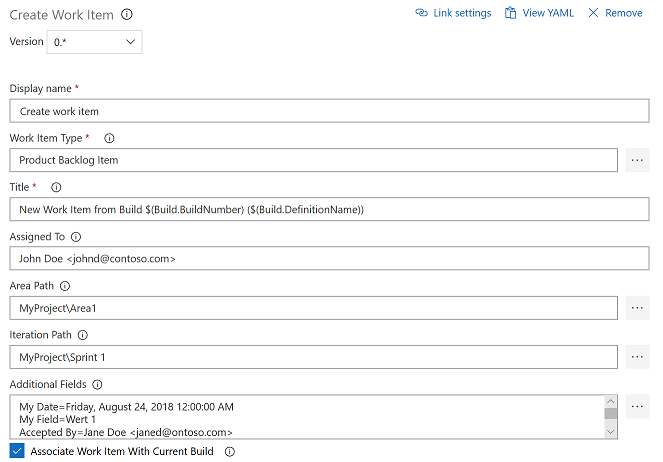
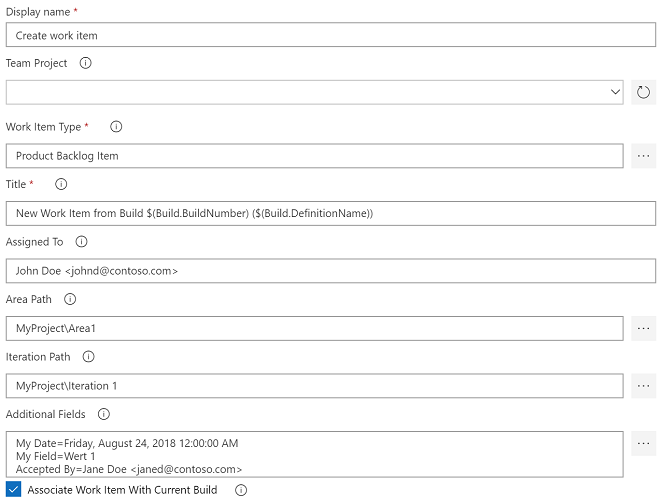
Update docs to v1.2.0

Changed region(s): [[0.0, 0.1515, 0.9955, 1.0], [0.0, 0.0, 0.9955, 0.1515], [0.9351, 0.7576, 0.9653, 0.7879]]

diff --git a/CreateWorkItem/en-US/overview.md b/CreateWorkItem/en-US/overview.md
@@ -50,6 +50,10 @@ The task supports the default parameters listed below. All parameters support va
 
 ![Default Task Parameters](../assets/DefaultInputs.png "Configuring the Create Work Item task")
 
+- <a name="teamProject">**Team Project:**</a> Select the team project in which to create the new work item or leave empty to use the current project. If the list is empty, click the refresh button on the right.
+
+  **YAML: teamProject** - Default is empty.
+
 - <a name="workItemType">**Work Item Type:**</a> Specify the work item type you want to create. If you know the exact name of the work item type, simply type it into the textbox. You may also click on the selection icon on the right (three dots) and select a work item type from the drop-down list displayed in the opening dialog. This field is required.
 
   ![Work Item Type Picker](../assets/WorkItemTypePicker.png "Selecting a work item type")
@@ -107,9 +111,9 @@ Use the parameters in the *Linking* group to control links from the newly create
 
   **Note:** The link type you select is used for the linked work item, not the created work item. Thus, if you select *Parent*, the linked work item will become the parent of the newly created work item. Please ensure that the combination of *Link Type* and *Link Target* results in a valid link relationship. E.g., if you select *Parent* as the link type and then use a *Target Query* that results in two or more work items, the task will fail to create the work item links since a work item can only have one parent.
 
-- <a name="linkTarget">**Link Target:**</a> Choose `ID` and specify the *Target ID* to link the new work item to a specific work item with a known ID. Select `Query` and enter a valid *Target Query* to link the new work item to one ore more items matching a given work item query. This option is only visible if linking is enabled.
+- <a name="linkTarget">**Link Target:**</a> Choose `ID` and specify the *Target ID* to link the new work item to a specific work item with a known ID. Select `Query` and enter a valid *Target Query* to link the new work item to one ore more items matching a given work item query. Use the option `Associated Work Items` to link all work items that are associated with the current build or release to the new work item. This option is only visible if linking is enabled.
   
-  **YAML: linkTarget** - Default is *id*. Set to *id* for the `ID` option or *wiql* for the `Query` option.
+  **YAML: linkTarget** - Default is *id*. Set to *id* for the `ID` option, *wiql* for the `Query` option, or *associate* for the `Associated Work Items` option.
 
 - <a name="targetId">**Target ID:**</a> Enter the ID of the work item that should be linked to the new work item. This option is only visible if linking is enabled and *Link Target* is set to `ID`.
   

diff --git a/CreateWorkItem/en-US/changeNotes.md b/CreateWorkItem/en-US/changeNotes.md
@@ -2,6 +2,10 @@
 
 # Create Work Item - Change Notes
 
+#### 1.2.0
+- Add support for creating work items in different team projects.
+- Add new link option to link all work items associated with the current build/release to the created work item.
+
 #### 1.1.1
 - Fix bug in variable substitution that could lead to variables not being replaced by their actual values.
 - Update extension manifest to include links to license, GitHub repository for issue tracking.
